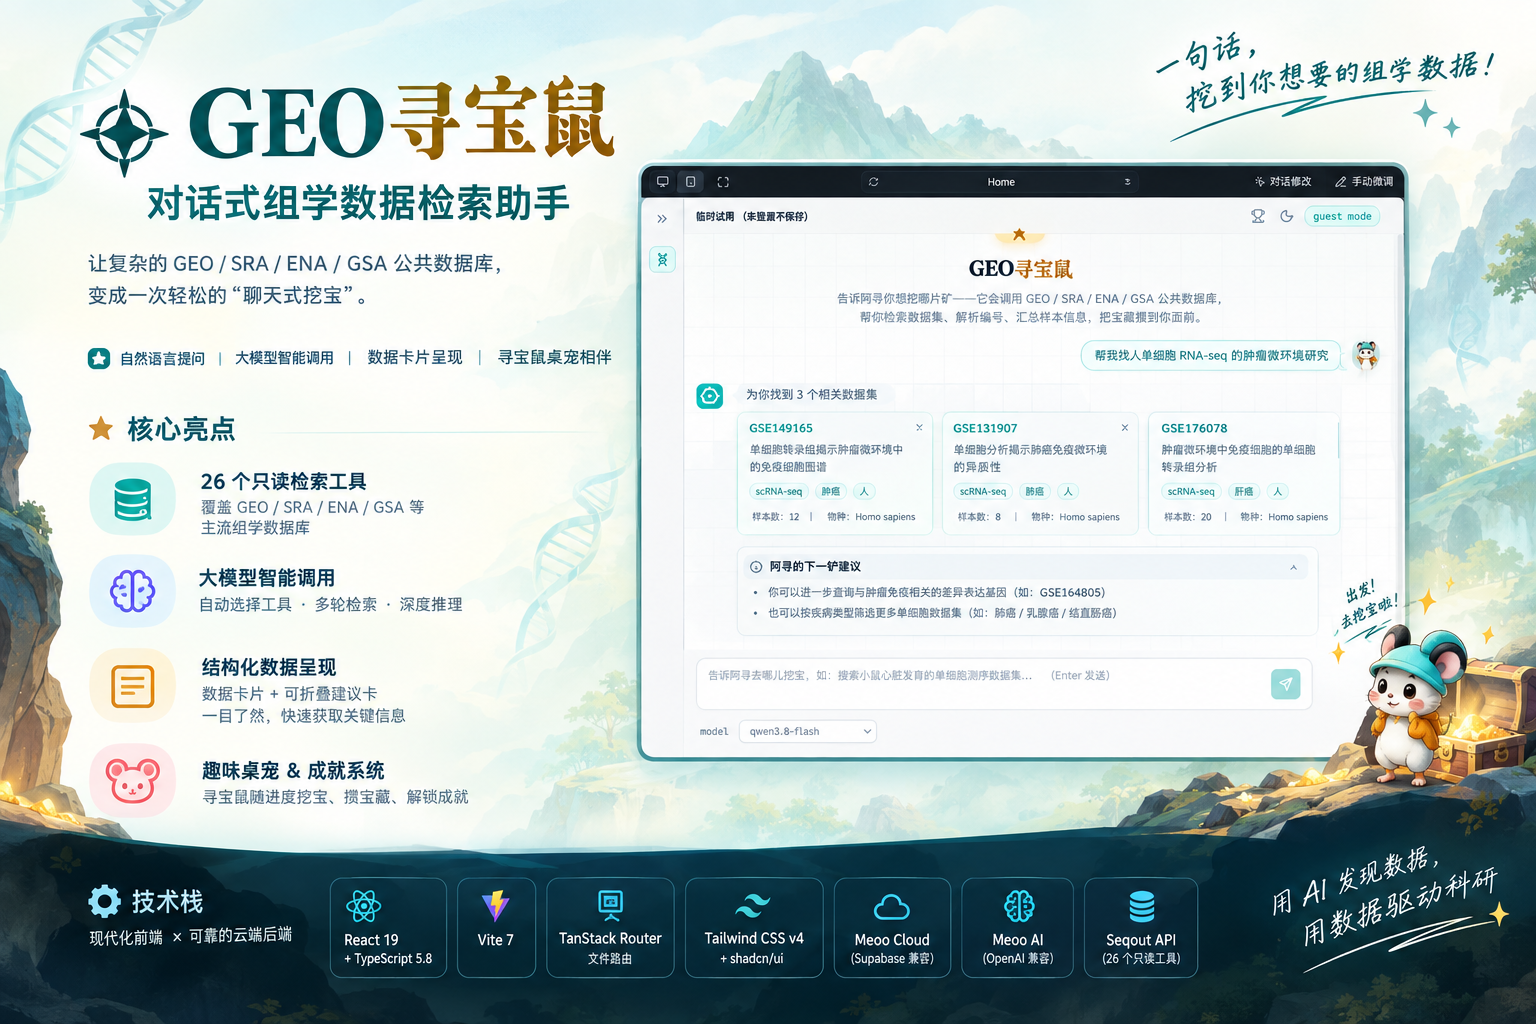
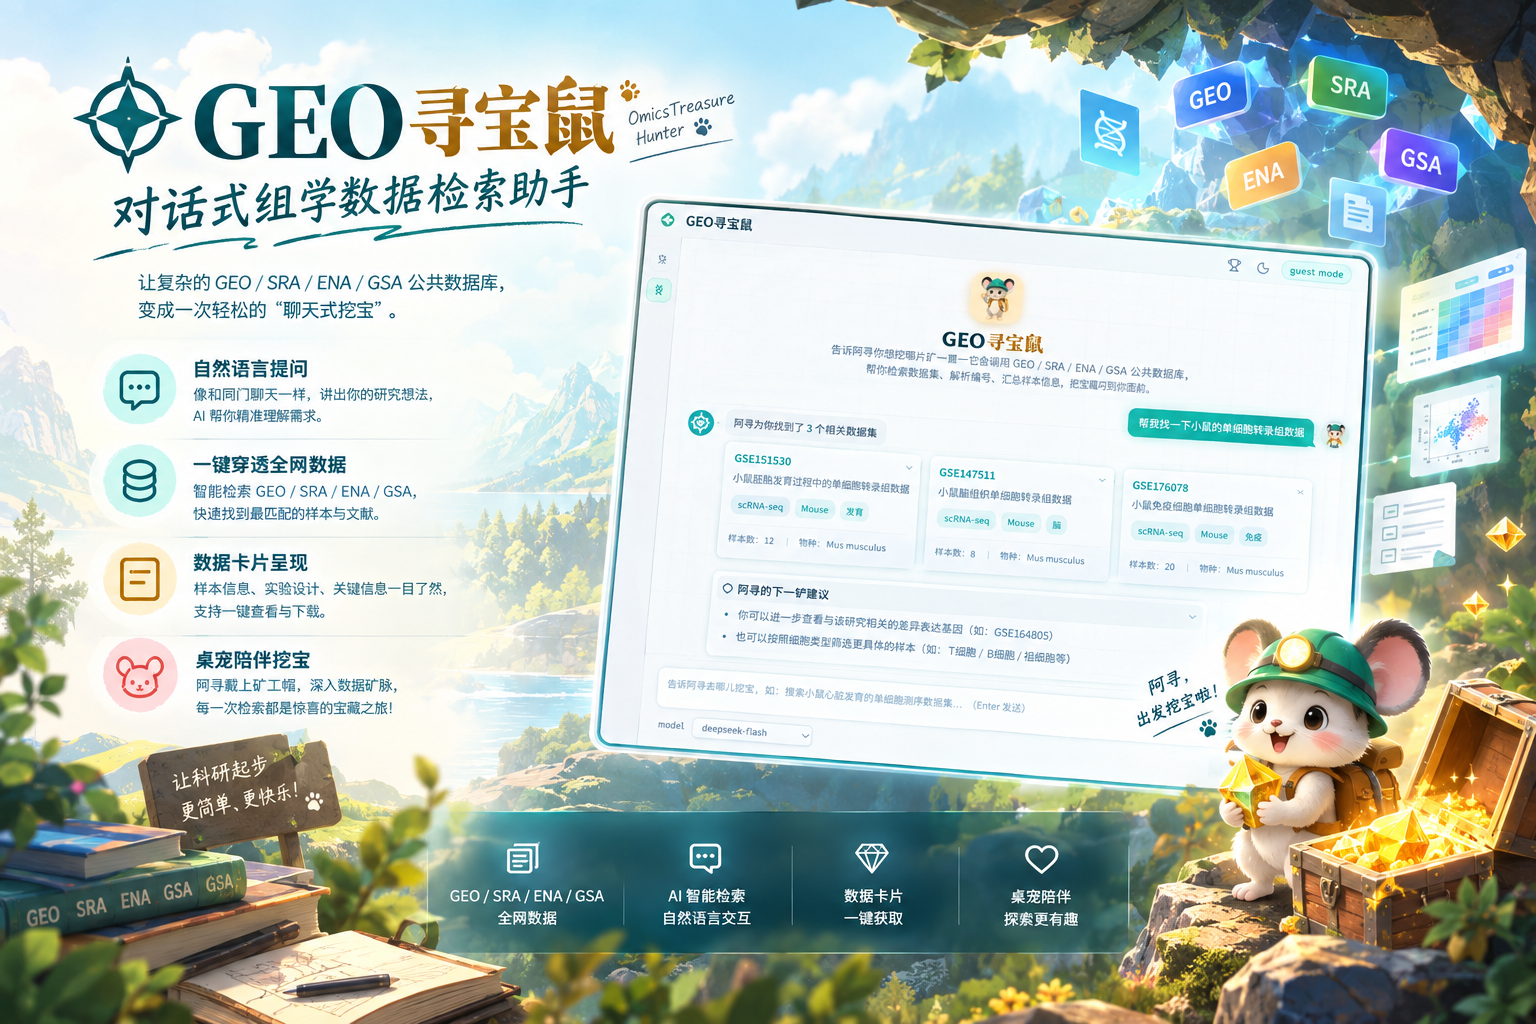
docs(treasure-mouse): README/关于页新增「立意」一节 + 封面图更新 + kimi 徽章修复
- 中英 README 与关于页同步加入「为什么做这只寻宝鼠」三段叙事
  （数据库迷宫痛点 → 解救第一步 → 阿寻陪伴式挖宝）
- 封面图 寻宝鼠.png 换新
- kimi.svg 背景路径补显式 fill="#0d0d0f"（原缺 fill 依赖默认黑，部分上下文会隐身），
  src/docs 两份同步

diff --git a/src/routes/about.tsx b/src/routes/about.tsx
@@ -85,6 +85,16 @@ function AboutPage(): React.ReactElement {
           <img src={introImg} alt={t("brand.full")} loading="lazy" className="block w-full" draggable={false} />
         </div>
 
+        {/* 立意（与 README「为什么做这只寻宝鼠」一节对齐） */}
+        <section className={sectionCls}>
+          <h2 className={h2Cls}>
+            <PawPrint size={16} className="text-pet-amber-deep" /> {t("about.why")}
+          </h2>
+          <p className="mt-2 text-[13px] font-medium leading-relaxed text-foreground/85">{t("about.why.1")}</p>
+          <p className="mt-2 text-[12.5px] leading-relaxed text-muted-foreground">{t("about.why.2")}</p>
+          <p className="mt-2 text-[12.5px] leading-relaxed text-muted-foreground">{t("about.why.3")}</p>
+        </section>
+
         {/* 核心亮点（与 README 功能一览逐条对齐） */}
         <section className={sectionCls}>
           <h2 className={h2Cls}>

diff --git a/README.md b/README.md
@@ -19,6 +19,14 @@
 
 ![Cover · Night in the mine](docs/寻宝鼠.png)
 
+### Why we built the treasure mouse
+
+**OmicsTreasure Hunter** helps research newcomers leave behind the cold, labyrinthine bioinformatics databases of the past — through a personified "prospecting for treasure" interaction, it punches through the GEO / SRA / ENA / GSA data universe in one step.
+
+For first-year graduate students, what drains their passion for science is usually not the experiments — it's the blind wandering through icy, hostile database mazes at the very start: can't find the right samples, can't decode the accessions, can't locate the literature. Step one becomes self-doubt and burnout. OmicsTreasure Hunter exists to rescue researchers from that dreary, oppressive first step of data hunting.
+
+Here, research is no longer a lonely solo grind, and there is no cold wall of code between you and the data. Just chat about your project ideas the way you'd talk with a labmate — the desk pet "A-Xun" (阿寻) puts on its miner's helmet, dives into the data lodes, and gleefully digs out the golden datasets and key papers that best match your direction, delivering tidy sample cards right to your hands. Every search is a small adventure — less anxiety at the start of your research journey, more of the pure joy of exploration and steady companionship.
+
 **UI preview** (self-hosted mode + DeepSeek model, running as a guest):
 
 ![UI](docs/geo寻宝鼠.gif)

diff --git a/docs/README.zh-CN.md b/docs/README.zh-CN.md
@@ -19,6 +19,14 @@
 
 ![封面 · 夜探矿洞](寻宝鼠.png)
 
+### 立意 · 为什么做这只寻宝鼠
+
+**GEO 寻宝鼠（OmicsTreasure Hunter）** 让新手科研小白告别老旧繁琐的生信数据库迷宫，用拟人化"探矿挖宝"交互，一键穿透 GEO / SRA / ENA / GSA 全网数据宝藏。
+
+对刚进组的研究生来说，科研最磨灭热情的，往往不是做实验，而是起步时在冰冷、反人类的数据库迷宫里抓瞎——找不对样本、看不懂编号、搜不到文献，第一步就陷入自我怀疑与精神内耗。「GEO 寻宝鼠」想要做的，是把高校科研人从枯燥压抑的第一步数据搜索中彻底解救出来。
+
+在这里，科研不再是孤独的单打独斗，也没有冰冷复杂的代码门槛。只要像和同门聊天一样，随口说出你的课题构想，桌宠"阿寻"就会戴上矿工帽一头扎进数据矿脉深处，兴冲冲地帮你刨出与研究方向最贴合的黄金数据与关键文献，将规整的样本卡片稳稳叼到你面前。每一次检索都是一次充满惊喜的挖宝——让科研起步少一点焦虑迷茫，多一份探索的纯粹乐趣与踏实陪伴。
+
 **界面预览**（自托管模式 + DeepSeek 模型，纯游客运行）：
 
 ![使用界面](使用页面.png)
